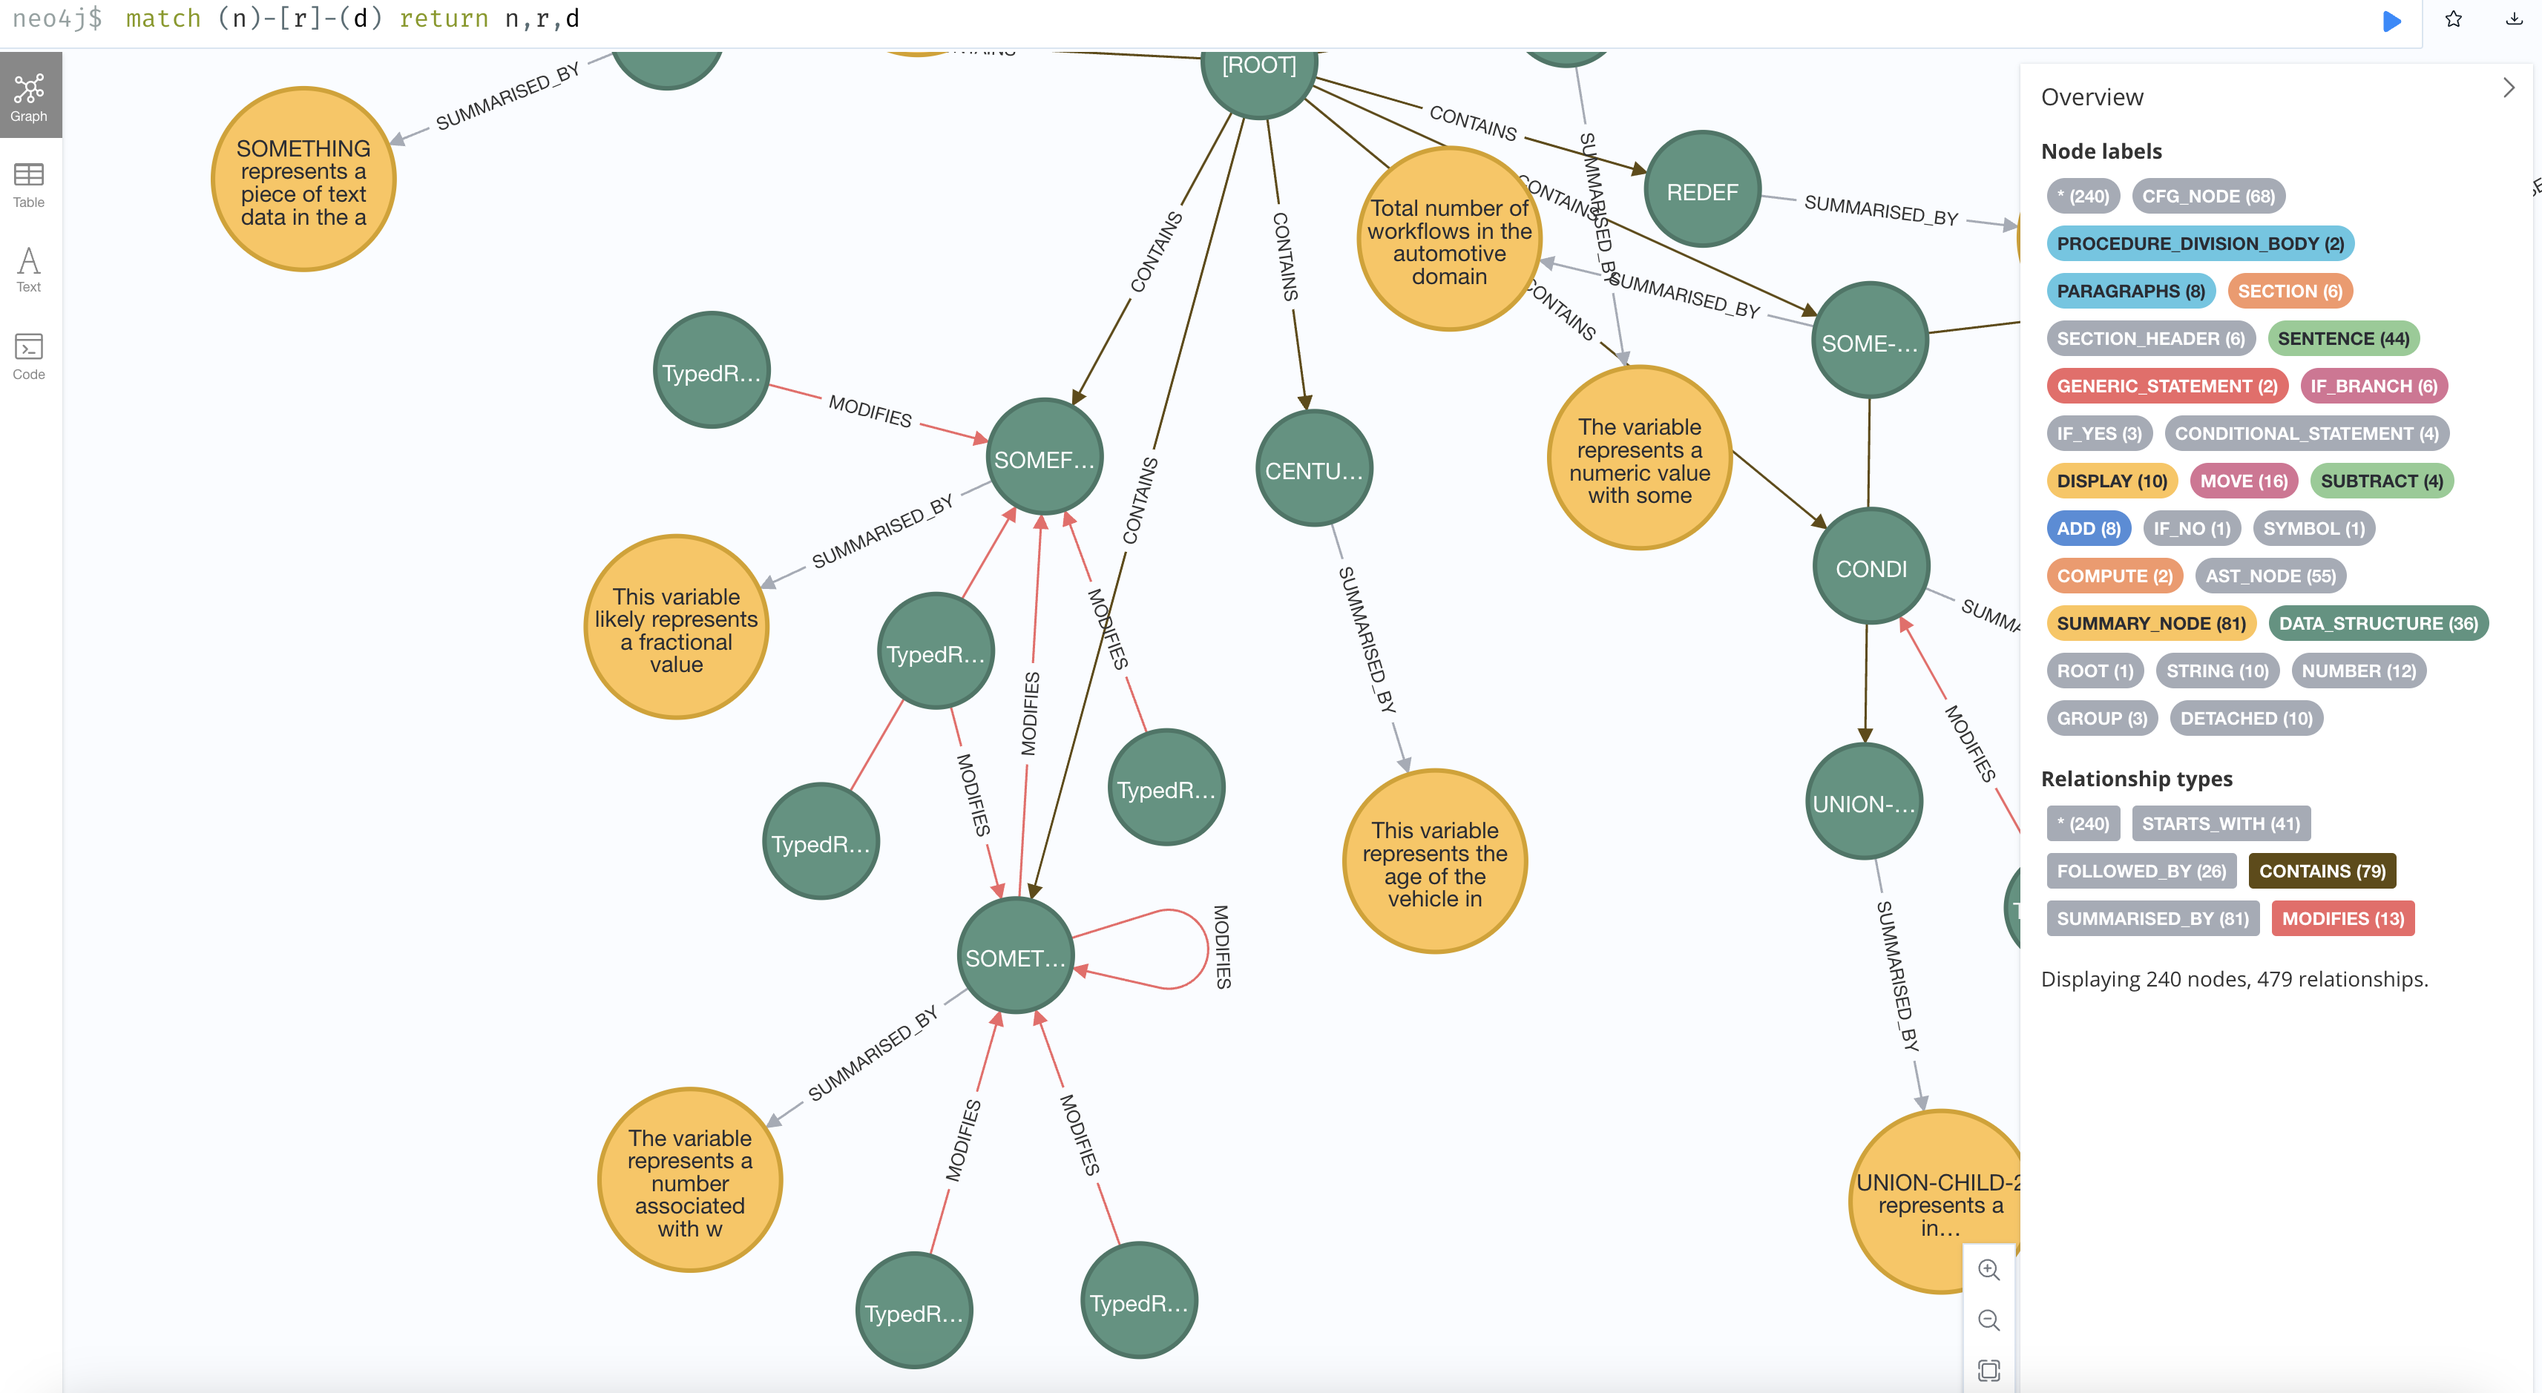
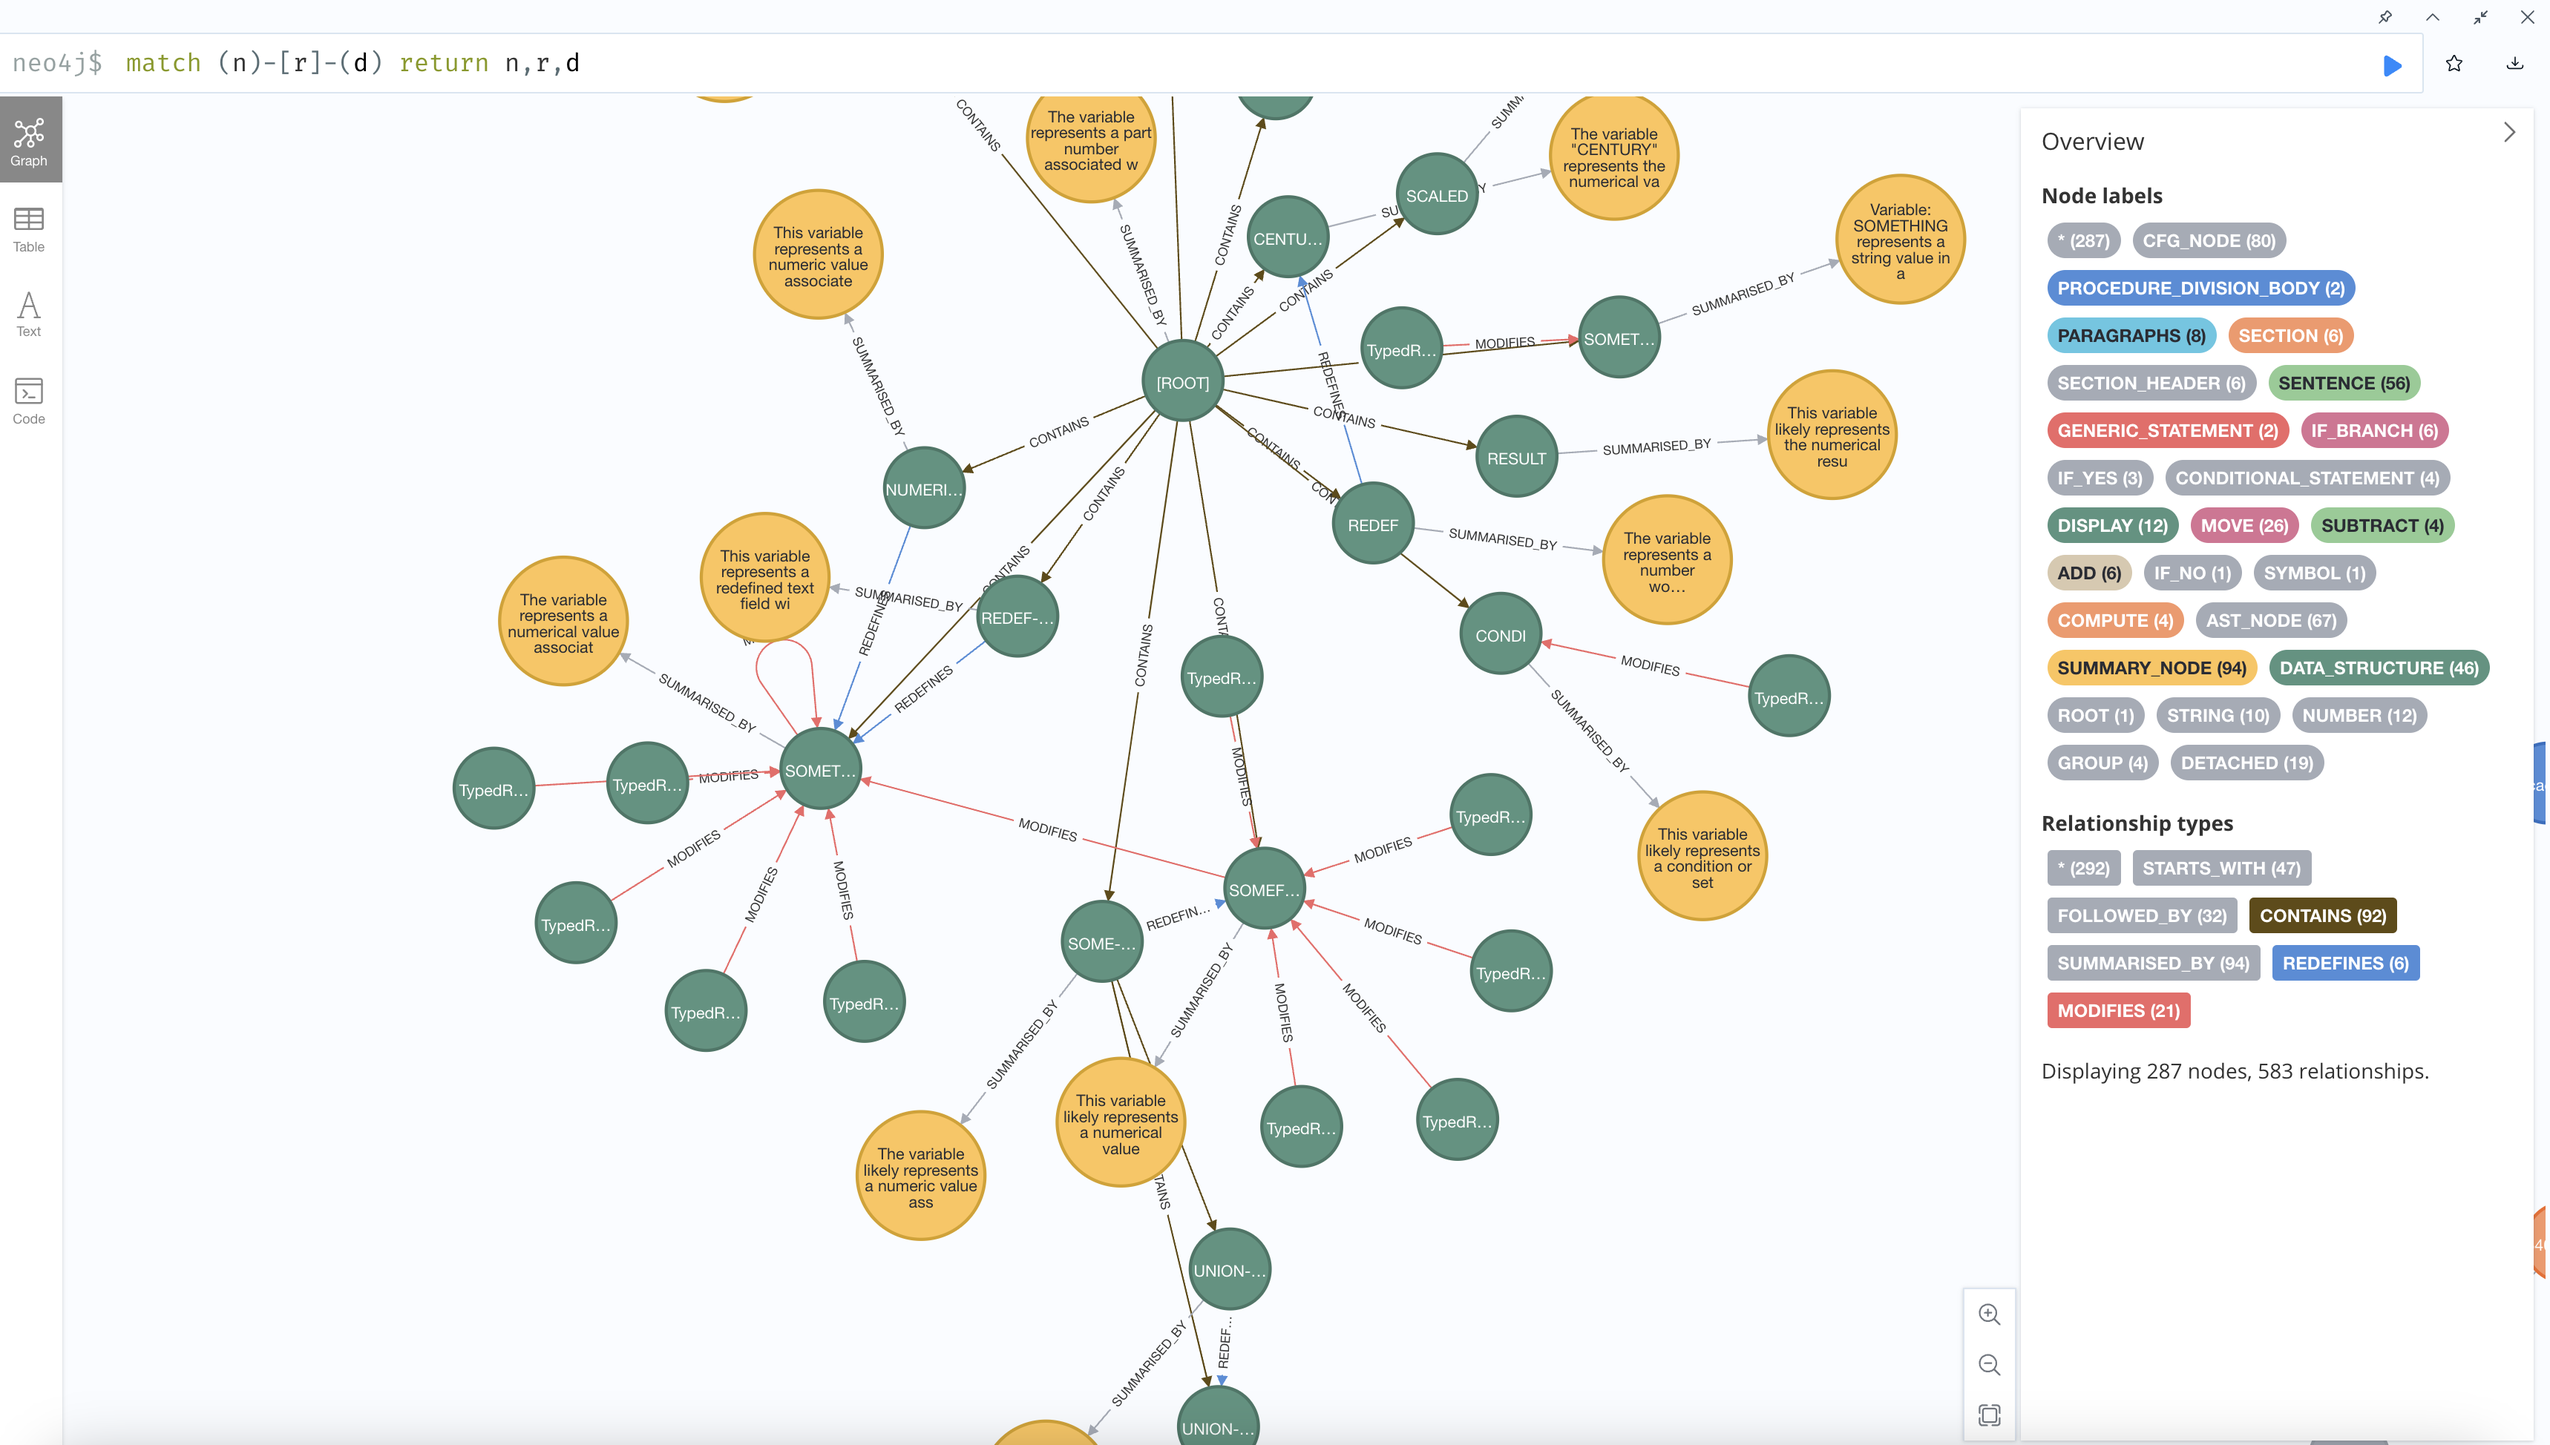
Updating image

diff --git a/README.md b/README.md
@@ -7,7 +7,7 @@ This is an evolving toolkit of capabilities helpful for reverse engineering lega
 - Control Flow Tree generation
 - The SMOJOL Interpreter (WIP)
 - Injecting AST and Control Flow into Neo4J
-- Injecting Cobol data layouts from Data Division into Neo4J
+- Injecting Cobol data layouts from Data Division into Neo4J (with dependencies)
 - Injecting execution traces from the SMOJOL interpreter into Neo4J
 - Injecting record dependency connections (MOVE, COMPUTE, etc.) into Neo4J
 - Integration with OpenAI GPT to summarise nodes using bottom-up node traversal
@@ -67,11 +67,11 @@ The following diagram shows the AST, the Control Flow Graph, and the data struct
 
 ![ast-cfg-structs-graph](documentation/ast-and-cfg-structs-graph.png)
 
-## Record Dependency Graph
+## Data Dependency Graph
 
-This capability connects records which modify other records, with a ```MODIFIES``` relation. The dependencies traced include variables which are used in expressions, as well as free-standing literals. Below is an example of a set of record dependencies from a program.
+This capability connects records which modify other records, with a ```MODIFIES``` relation. The dependencies traced include variables which are used in expressions, as well as free-standing literals. Below is an example of a set of record dependencies from a program. It also generates connections based on REDEFINES clauses.
 
-![ast-cfg-structs-graph](documentation/record-dependencies-graph.png)
+![ast-cfg-structs-graph](documentation/record-dependencies-graph2.png)
 
 ## SMOJOL (SMol Java-powered CobOL) Interpreter
 
